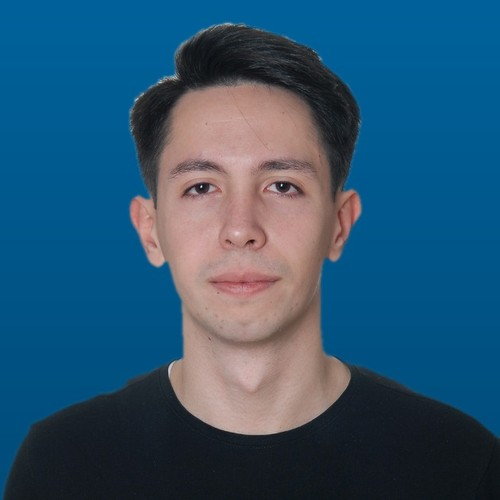
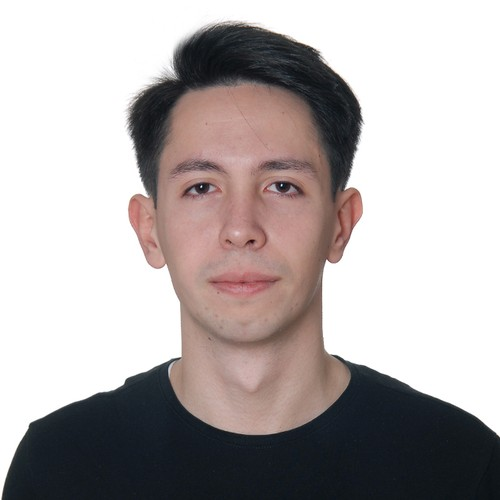
Profile photo: white background with a blue frame

diff --git a/_sass/layout/_academic.scss b/_sass/layout/_academic.scss
@@ -14,6 +14,9 @@
 /* Round profile photo, as on the reference site */
 .author__avatar img {
   border-radius: 50%;
+  border: 4px solid var(--site-menu-color);
+  padding: 0;
+  background: #fff;
 }
 
 /* Section headings on the home page (Research, News) */
